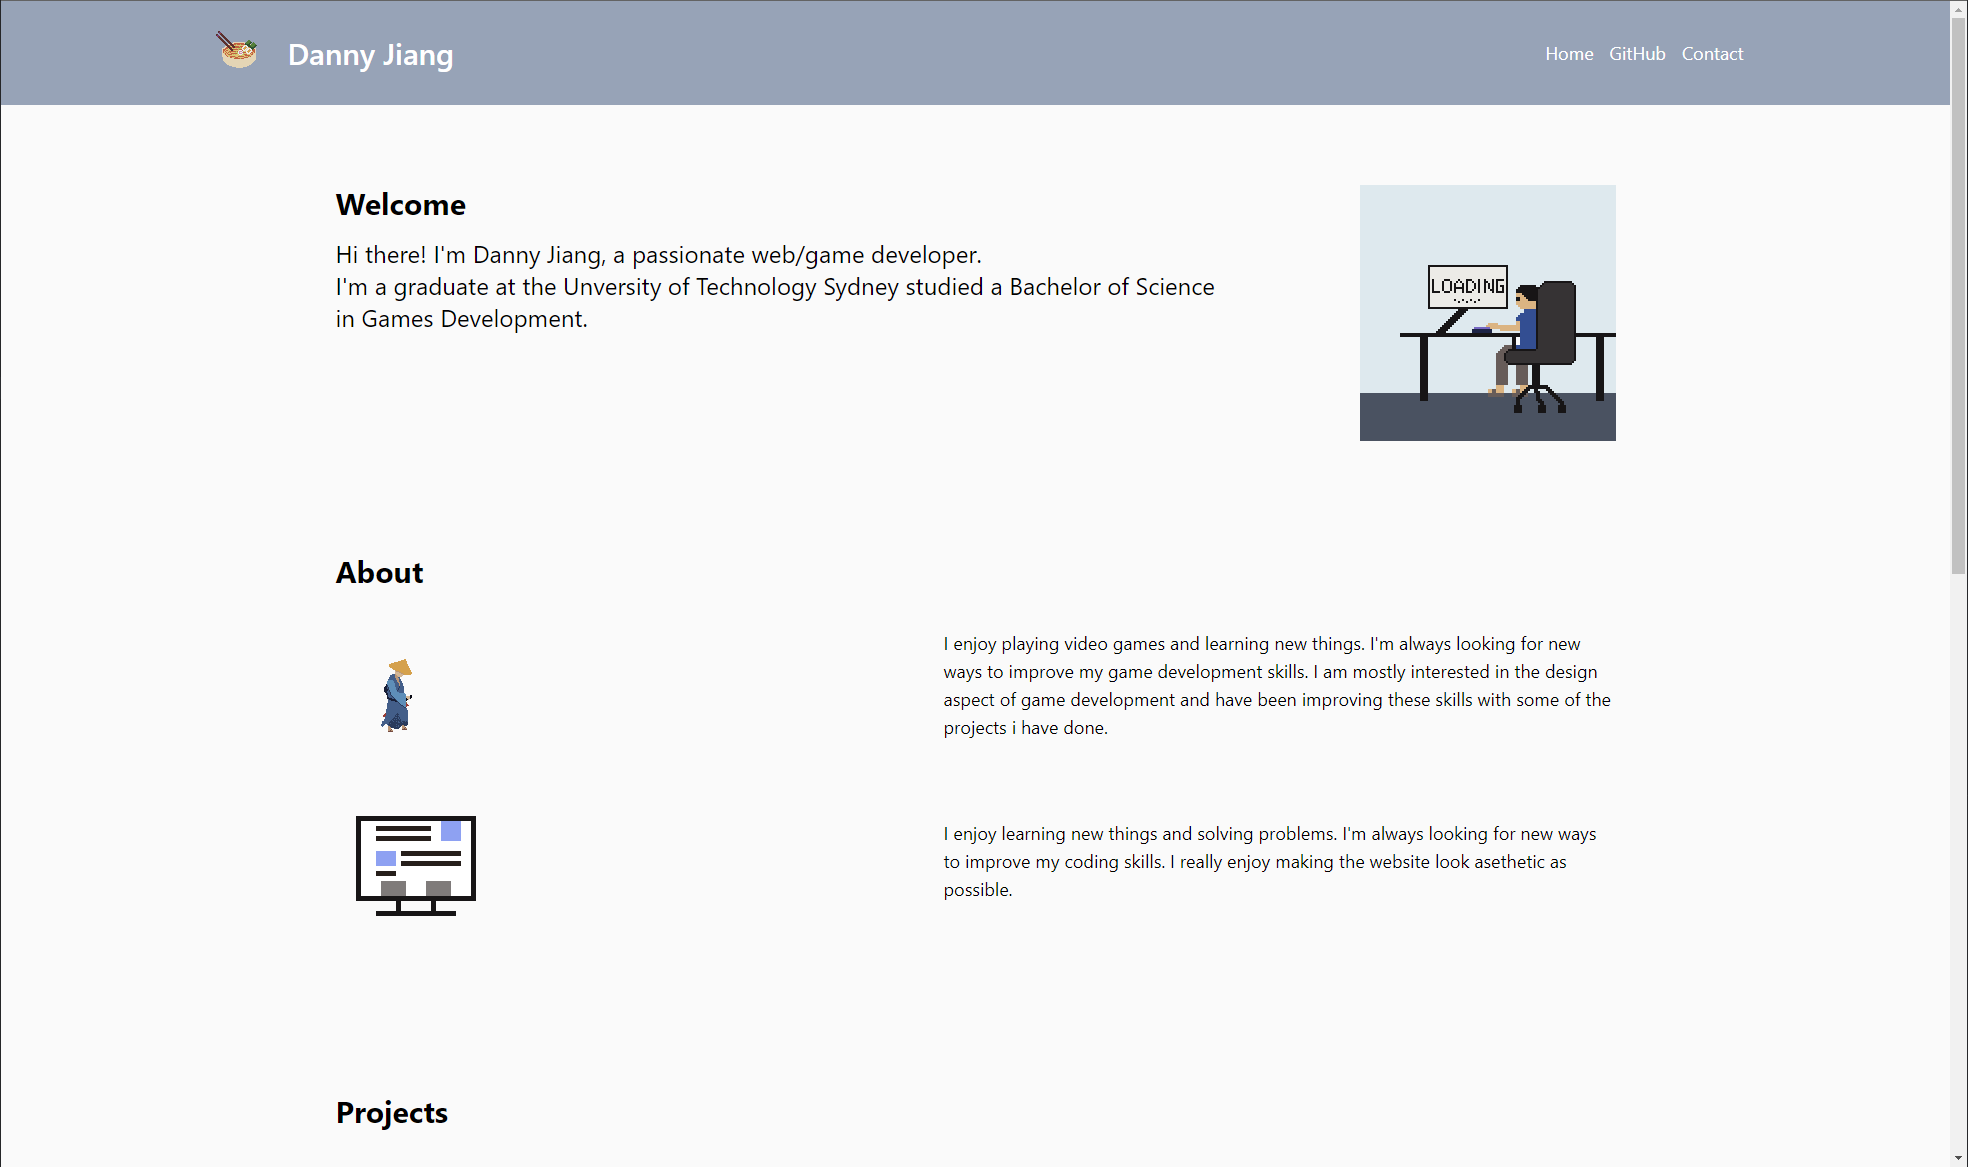
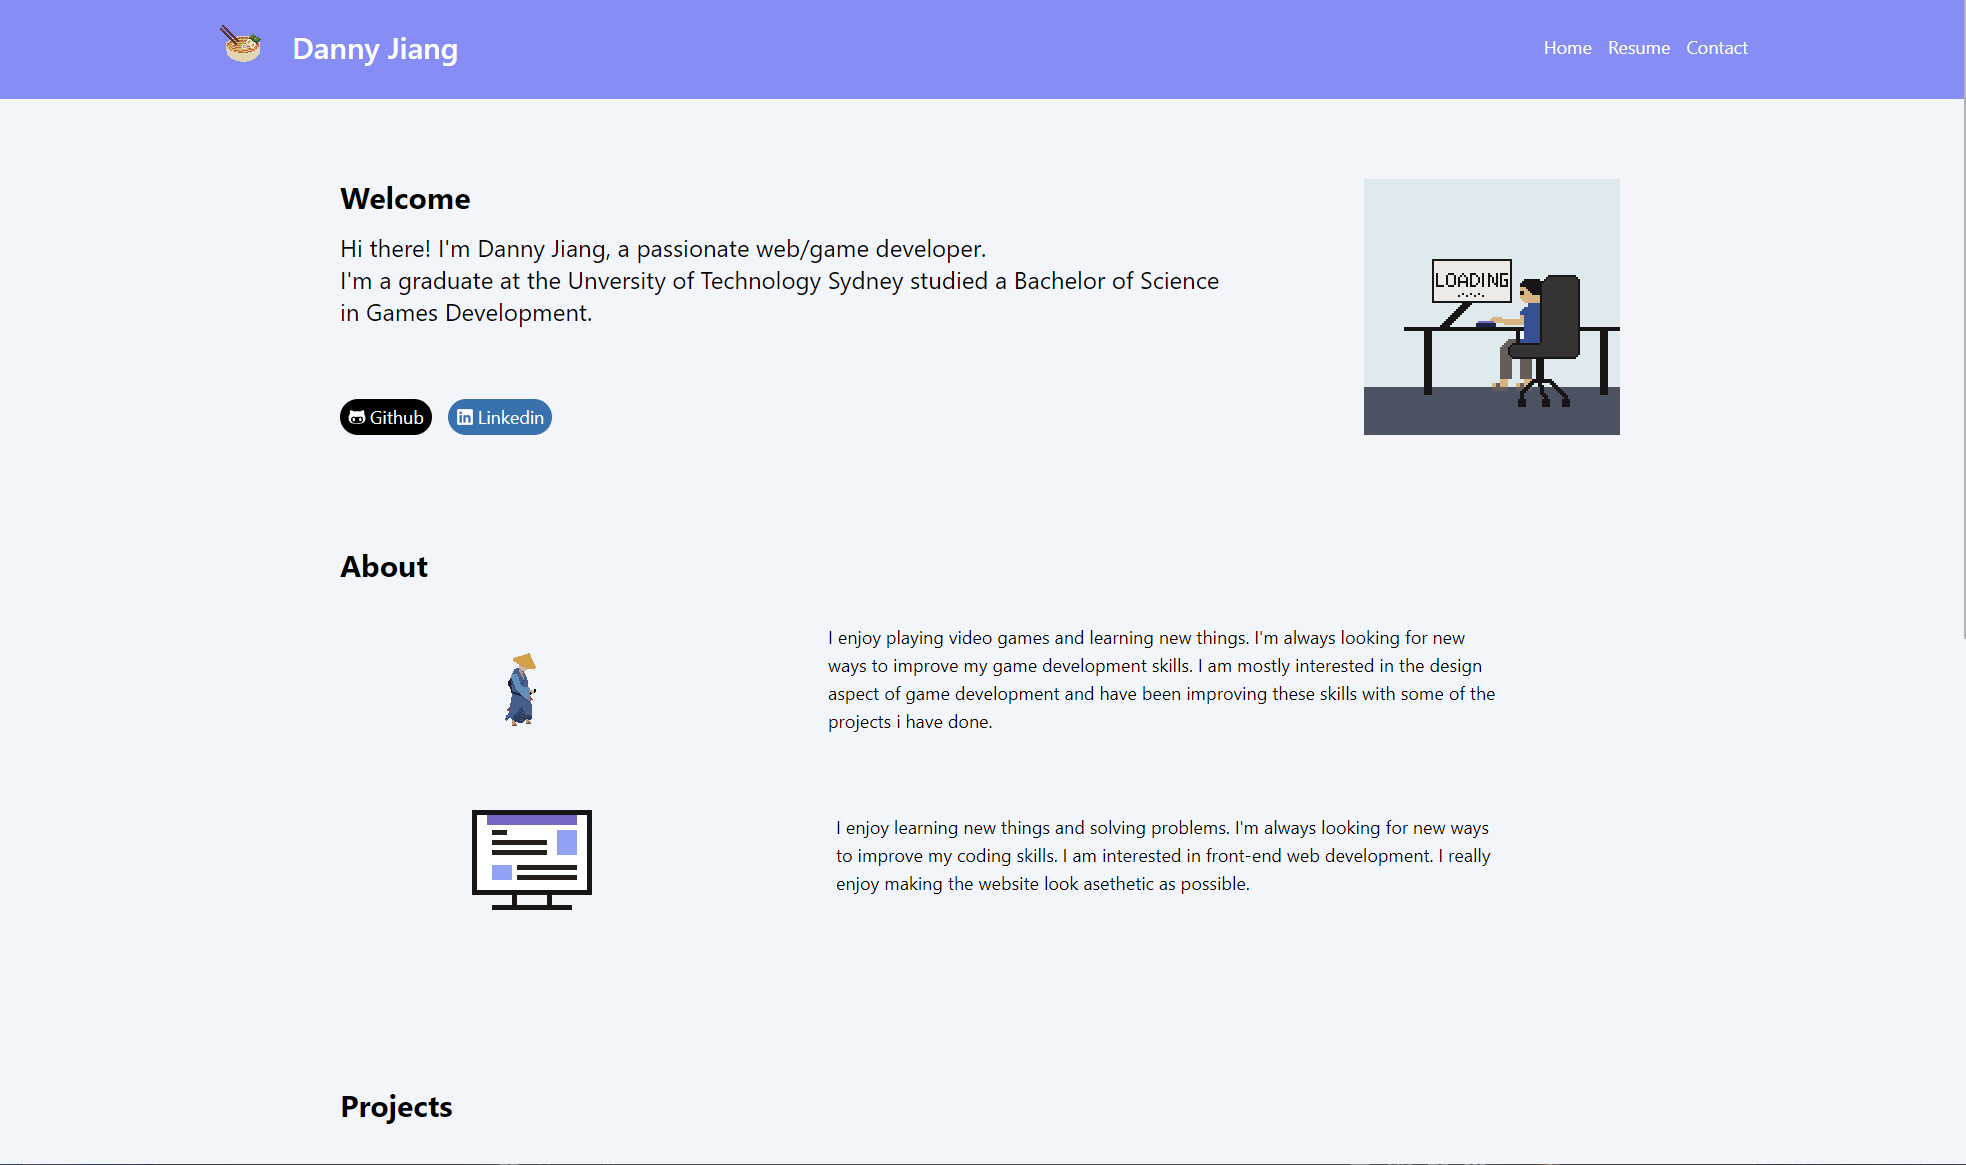
update syles for mobile

diff --git a/pages/index.tsx b/pages/index.tsx
@@ -2,6 +2,7 @@ import Head from "next/head";
 import { allProjects, Project } from "contentlayer/generated";
 import { compareDesc, format } from "date-fns";
 import { FaGithubAlt, FaLinkedin } from "react-icons/fa";
+import Image from "next/image";
 import Link from "next/link";
 
 type PageProps = {
@@ -26,21 +27,21 @@ function Home({ projects }: PageProps) {
       </Head>
 
       <main className="container mx-auto flex flex-col items-center gap-4">
-        <div className="my-1 sm:mx-4 md:mt-20 md:max-w-7xl">
-          <div className="flex justify-between gap-36">
-            <div className="flex flex-col gap-4 text-left text-2xl">
-              <h1 className="text-3xl font-bold">Welcome</h1>
-              <div className="flex flex-col gap-4">
+        <div className="my-1 mx-2 sm:mx-4 md:mt-20">
+          <div className="flex flex-col-reverse justify-between gap-36 md:flex-row">
+            <div className="flex flex-col gap-4 text-center text-sm md:text-left md:text-2xl">
+              <h1 className="text-3xl font-bold md:text-5xl">Welcome</h1>
+              <div className="flex flex-col items-center gap-4 md:items-start">
                 <p>
                   Hi there! I'm Danny Jiang, a passionate web/game developer.
                   <br />
                   I'm a graduate at the Unversity of Technology Sydney studied a
                   Bachelor of Science in Games Development.
                 </p>
-                <div className="mt-14 flex gap-4 text-lg">
+                <div className="mt-14 flex flex-col gap-4 text-lg md:flex-row">
                   <Link href="https://github.com/SV3N77">
                     <a>
-                      <div className="flex items-center gap-1 rounded-full bg-black px-2 py-1 text-white">
+                      <div className="flex items-center justify-center gap-1 rounded-full bg-black px-3 py-2 text-white">
                         <FaGithubAlt />
                         Github
                       </div>
@@ -48,7 +49,7 @@ function Home({ projects }: PageProps) {
                   </Link>
                   <Link href="www.linkedin.com/in/danny-jiang2">
                     <a>
-                      <div className="flex items-center gap-1 rounded-full bg-[#0072b1] px-2 py-1 text-white ">
+                      <div className="flex items-center justify-center gap-1 rounded-full bg-[#0072b1] px-3 py-2 text-white ">
                         <FaLinkedin />
                         Linkedin
                       </div>
@@ -57,16 +58,22 @@ function Home({ projects }: PageProps) {
                 </div>
               </div>
             </div>
-            <img
-              src="/images/gifs/Computer.gif"
-              alt="computer"
-              className="aspect-square bg-cover"
-            />
+            <div className="m-auto w-60 drop-shadow-md md:m-0 md:w-72 xl:mr-40 xl:w-auto">
+              <Image
+                src="/images/gifs/Computer.gif"
+                alt="computer"
+                className="aspect-square"
+                priority
+                width={400}
+                height={400}
+                layout="intrinsic"
+              />
+            </div>
           </div>
 
-          <div className="my-28 flex flex-col gap-8 text-lg">
-            <h1 className="text-3xl font-bold">About</h1>
-            <div className="flex items-center justify-around">
+          <div className="my-28 flex flex-col gap-8 text-center text-sm md:text-left md:text-lg">
+            <h1 className="text-3xl font-bold md:text-5xl">About</h1>
+            <div className="flex flex-col items-center justify-around md:flex-row">
               <img
                 src="/images/gifs/Kenji-Idle.gif"
                 alt="game"
@@ -81,7 +88,7 @@ function Home({ projects }: PageProps) {
                 have done.
               </p>
             </div>
-            <div className="flex items-center justify-around">
+            <div className="flex flex-col items-center justify-around md:flex-row">
               <img
                 src="/images/gifs/WebDev.gif"
                 alt="web"
@@ -96,10 +103,8 @@ function Home({ projects }: PageProps) {
             </div>
           </div>
 
-          <section className="my-10 flex flex-col gap-4 pb-20">
-            <h1 className="my-10 text-3xl font-bold" id="Projects">
-              Projects
-            </h1>
+          <section className="my-10 flex flex-col gap-4 pb-20 text-center md:text-left">
+            <h1 className="my-10 text-3xl font-bold md:text-5xl">Projects</h1>
             <div className="grid gap-4 lg:grid-cols-2">
               {projects.map((project) => (
                 <ProjectCards key={project._id} {...project} />
@@ -124,12 +129,12 @@ function ProjectCards({
   date,
   images,
 }: Project) {
-  const newDate = format(new Date(date), "MMM yy");
+  const newDate = format(new Date(date), "MMM yyyy");
 
   return (
     <Link href={url}>
       <a>
-        <div className="flex h-60 overflow-hidden rounded-lg bg-indigo-100 text-sm shadow-lg">
+        <div className="flex flex-col overflow-hidden rounded-lg bg-indigo-100 text-sm shadow-lg  md:h-60 md:flex-row">
           <div className="aspect-video md:aspect-square md:w-auto">
             <img
               src={images?.at(0)?.src}

diff --git a/pages/projects/[slug].tsx b/pages/projects/[slug].tsx
@@ -35,7 +35,7 @@ export async function getStaticProps({ params }: GetStaticPropsContext) {
 
 export default function ProjectPage({ project }: ProjectPageProps) {
   return (
-    <div className="container my-20 mx-auto flex flex-col items-center gap-4">
+    <div className="container my-20 flex flex-col items-center gap-4 px-2 sm:mx-auto">
       <div className="xl:w-10/12">
         {project.images && project.images.length > 0 && (
           <Carousel images={project.images} />
@@ -43,13 +43,13 @@ export default function ProjectPage({ project }: ProjectPageProps) {
       </div>
 
       <div className="my-10 flex flex-col gap-4 rounded-lg bg-indigo-100 p-10 shadow-lg marker:mb-6 md:px-8 xl:w-10/12">
-        <h1 className="text-3xl font-semibold">{project.title}</h1>
+        <h1 className="text-3xl font-semibold md:text-5xl">{project.title}</h1>
         {project.links.map((link) => (
           <LinkComponent key={link.url} link={link} />
         ))}
         <div className="flex flex-col">
-          <div className="text-3xl font-semibold">Tech Stack</div>
-          <div className="mt-4 flex flex-wrap gap-2 text-xs">
+          <div className="text-2xl font-semibold md:text-4xl">Tech Stack</div>
+          <div className="mt-4 flex flex-wrap gap-2 text-xs md:text-lg">
             {project.tags.map((tag) => (
               <span
                 key={tag}
@@ -80,7 +80,7 @@ type LinkProps = {
 function LinkComponent({ link }: LinkProps) {
   return (
     <a href={link.url}>
-      <span className="rounded-full bg-teal-500 px-2 py-1 text-teal-100 underline">
+      <span className="rounded-full bg-teal-500 px-2 py-1 text-xs text-teal-100 underline md:text-lg">
         {link.url.replace(/^https?:\/\//, "")}
       </span>
     </a>

diff --git a/components/Header.tsx b/components/Header.tsx
@@ -3,7 +3,7 @@ import Link from "next/link";
 function Header() {
   return (
     <header className="bg-indigo-400 p-5 ">
-      <nav className="container mx-auto flex items-center justify-center gap-4 text-lg text-white">
+      <nav className="container mx-auto flex flex-col items-center justify-center gap-4 text-lg text-white md:flex-row">
         <Link href="/">
           <a>
             <img src="/images/icons/Ramen.ico" alt="Ramen" />

diff --git a/projects/anime-db.md b/projects/anime-db.md
@@ -5,8 +5,6 @@ tags:
   - NextJS
   - TailwindCSS
   - React Query
-  - react-intersection-observer
-  - date-fns
   - Typescript
   - Vercel
 shortDescription: An anime database where you can search for anime and get details with related franchises.
@@ -28,8 +26,7 @@ Utilising the public Kistu.io API, this project displays the various details of 
 
 AnimeDB was an amazing project to do as this project allowed me to learn to use a public API. In this project I used react-query and its ability
 to query cache so that if the same query is searched then it doesn't need to fetch another time. I also implemented infinite scroll with both react-query
-and NextJS getStaticProps so that if you scroll down to the bottom it will load more results. I used react-intersection-observer to check if the page is at
-the bottom.
+and NextJS getStaticProps so that if you scroll down to the bottom it will load more results.
 
 The AnimeDB was an amazing project which further enhanced my web development knowledge and was enjoyable to create. I am most proud of this project
 as it shows the accumalation of my knowledge in web development.

diff --git a/projects/portfolio-v2.md b/projects/portfolio-v2.md
@@ -5,11 +5,13 @@ tags:
   - NextJS
   - TailwindCSS
   - Content Layer
-  - Embla Carousel
-  - Date-fns
   - Vercel
 shortDescription: A portfolio for all my work.
 links:
   - url: "https://github.com/SV3N77/portfolio-v2"
     github: true
 ---
+
+This portfolio is an updated version of my previous portfolio using a more modern framework. It was an amazing
+experience using content layer to input data to my projects. To add a new project to this would be simple to
+just make a new markdown file. This is a major upgrade from my previous project which used HTML and CSS.
